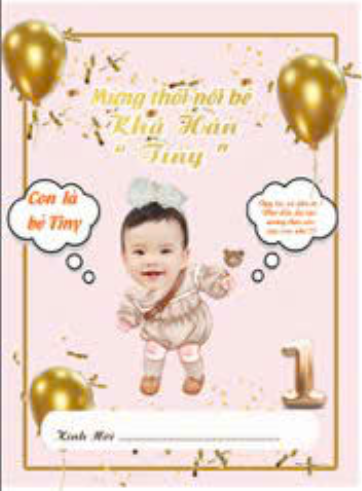
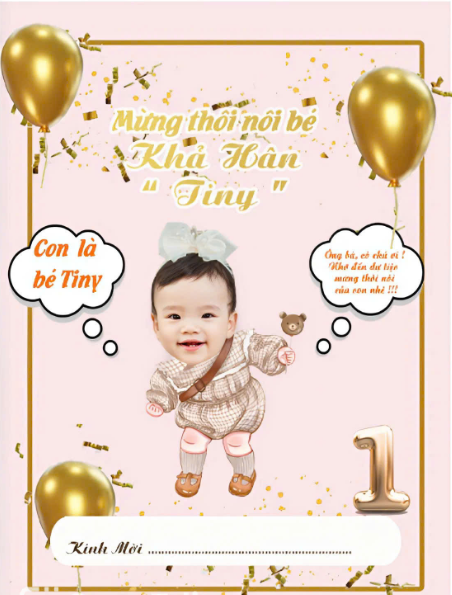
fix: card-front

diff --git a/src/Card.css b/src/Card.css
@@ -27,8 +27,8 @@ body {
   }
   .na {
     position: absolute;
-    top: 79%;
-    left: 35%;
+    top: 85.5%;
+    left: 38%;
     font-size: 0.9rem;
     font-weight: bold;
     background: linear-gradient(45deg, #c09b00, #004c99, #006b2e, #4b0099);
@@ -42,14 +42,13 @@ body {
     }
   }
 }
-/* .ReactFlipCard__flipCardBack.ReactFlipCard__rotateY180Deg {
+.ReactFlipCard__flipCardBack.ReactFlipCard__rotateY180Deg {
   .na {
     display: none;
-  } */
-.card-container {
+  }
   .na-back {
     position: absolute;
-    top: 24.5%;
+    top: 38.5%;
     left: 33%;
     font-size: 1.2rem;
     font-weight: bold;
@@ -71,7 +70,6 @@ body {
     }
   }
 }
-/* } */
 @keyframes backgroundAnimation {
   0% {
     background-position: 0% 50%;

diff --git a/src/Card.jsx b/src/Card.jsx
@@ -8,7 +8,7 @@ const Card = () => {
     <div className="container">
       <div className="stack">
         <div className="row">
-          {/* <ReactFlipCard
+          <ReactFlipCard
             containerStyle={{
               width: "100%",
               height: "100%",
@@ -34,10 +34,7 @@ const Card = () => {
                 />
               </>
             }
-          /> */}
-          <div className="card-container">
-            <img className="img-fluid" src={"card-back.PNG"} alt="Card Back" />
-          </div>
+          />
         </div>
         <ImageGalery />
         <iframe
